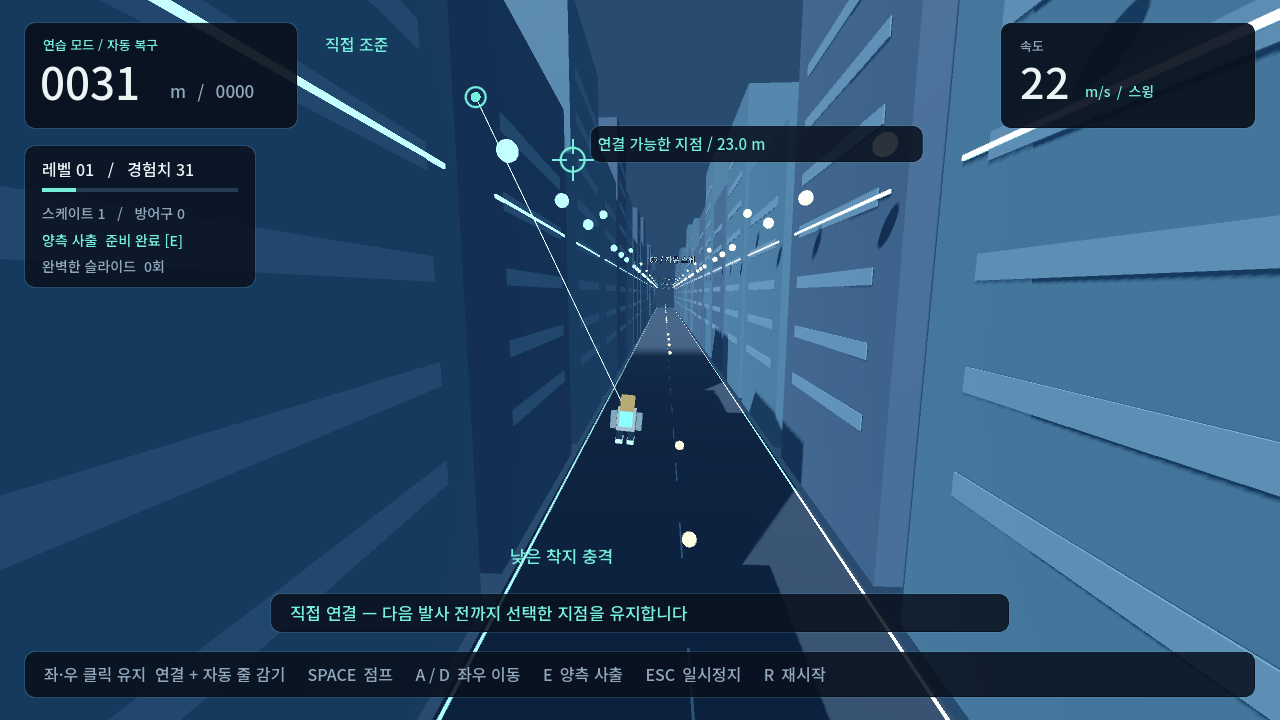
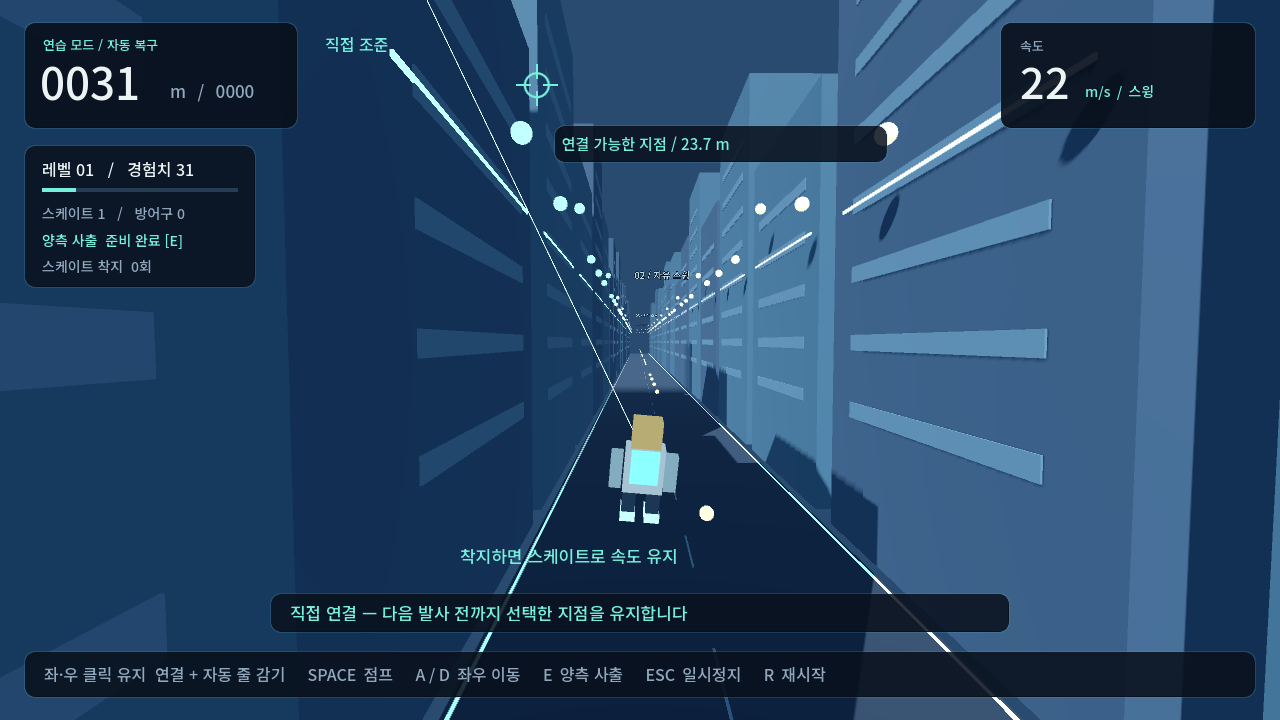
feat: add safe landings, timed skating and protected twin dash

diff --git a/docs/PROGRESS_OVERVIEW.md b/docs/PROGRESS_OVERVIEW.md
@@ -1,12 +1,12 @@
-# Wire Rush — 프로토타입 0.2.1
+# Wire Rush — 프로토타입 0.3.0
 
-2026-09-14. 기본 앵커를 16~18m로 올리고 마우스 버튼 유지 시 자동으로 줄을 감도록 변경했습니다. 한국어/영어와 자동/직접 조준 설정을 유지합니다.
+2026-09-14. 착지 정지, 시간제 스케이트, 가까운 카메라, 앵커 방향 무적 사출, 복귀 후 2초 보호를 적용했습니다. 한국어/영어·자동/직접 조준·마우스 유지 자동 감기를 지원합니다.
 
 ## 실행 위치
 
 - 프로젝트: `D:\GameProject\WireSwing\project.godot`
-- 실행 파일: `builds/WireRush-0.2.1-Windows/WireRush.exe`
-- 배포 ZIP: `builds/WireRush-0.2.1-Windows.zip`
+- 실행 파일: `builds/WireRush-0.3.0-Windows/WireRush.exe`
+- 배포 ZIP: `builds/WireRush-0.3.0-Windows.zip`
 - 저장소: https://github.com/Autopopcornshooter/wire-rush
 
 원본 HellDelivery에는 게임 코드나 문서를 변경하지 않았습니다. 설치된 Godot 실행 파일과 일치하는 공식 export template를 재사용했습니다. 신규 저장소에는 엔진·템플릿·빌드를 포함하지 않습니다.
@@ -19,10 +19,11 @@
 | 설정·언어 | 메인 메뉴/Esc 일시정지 → 설정, 한국어/영어 즉시 전환·저장, 한글 글꼴 포함 |
 | 직접 조준 | 커서로 건물 벽의 임의 지점 선택, 반대 버튼으로 스윙 중 재연결, 연결 지점 고정 |
 | 스윙 | 16~18m 높이 앵커, 실제 갈고리 이동 시간, 한 줄 유지, 클릭 유지 중 자동 줄 감기, 관성 해제 |
-| 착지 | 수직 충격 판정, 0.6초 넘어짐, 착지 전후 해제 여유 시간 |
-| 스케이트 | 속도 보존 슬라이드, 거리 소모, 점프/재연결, 공중 재충전 |
-| 특수 장비 | 양측 사출, 방어구, 미래 고층 앵커, 각 3단계 |
-| 성장 | 새 거리/아이템 XP, 선택 카드, 정지·재개 처리, XP 이월 |
+| 착지 | 낙하 충격 사망 없음, 스케이트 미보유 시 정지, 점프/와이어로 재출발 |
+| 스케이트 | 착지 수평 속력 2/3.5/5초 보존, 해제 타이밍 불필요, 점프/재연결, 공중 재충전 |
+| 특수 장비 | 양쪽 앵커 중간점 방향 무적 사출, 방어구, 미래 고층 앵커, 각 3단계 |
+| 성장·복귀 | 새 거리/아이템 XP, 선택 카드, 정지·재개, XP 이월, 복귀 후 2초 보호 |
+| 카메라 | 캐릭터 뒤 6m·위 2.2m 기준, 빠른 추적, 고정 FOV 75 |
 | 도시 | 6종 패턴, 64m 청크, 앞쪽 생성/뒤쪽 정리, 연결 중 청크 보호, 원점 이동 |
 | 표시 | 거리/속도/장비/슬라이드, 다음 앵커, 조작 안내, 결과 요약 |
 | 데이터 | 최고 거리 로컬 저장, 별도 설정 파일, 연습과 자동 검증 기록 분리 |
@@ -33,19 +34,19 @@
 Godot **4.7.1.stable.official.a13da4feb**, Windows, NVIDIA GeForce RTX 2070 SUPER / OpenGL 3.3 Compatibility.
 
 - Godot headless editor import: 오류 없이 완료.
-- `tests/run.gd`: **43/43 통과**. 높은 앵커, Shift 없이 자동 감기, 해제 시 감기 중단, 거리 중복 방지, 실제 스윙/줄 제약/관성, 착지·슬라이드·점프·재연결, 방어구, 사출, UI 정지, XP 이월, 청크 보호/해제, 원점 이동, 35m/s 충돌.
+- `tests/run.gd`: **64/64 통과**. 높은 앵커·자동 감기·관성·줄 제약, 안전 착지와 방어구 미소모, 등급별 스케이트 시간/속력/만료, 점프·재연결, 단측 앵커 사출 거부, 기존 속도와 무관한 사출 벡터·장애물 통과·무적 종료, 실제 장애물에서 복귀 보호·종료 후 위험 복원, 카메라 거리, UI 정지·XP 이월·원점 이동·청크 보호·35m/s 충돌.
 - `tests/settings_aim.gd`: **36/36 통과**. 직접 조준의 Shift 없는 자동 감기, 설정 저장·복원, 언어·버튼·정지 유지, 카메라 광선→서로 다른 벽과 높이 선택→실제 스윙, 재연결, 사거리·가림 검사, 임시 앵커 정리, 원점 이동·청크 보호, 한 프레임 내 누름/해제, 자동 모드 복귀.
 - `tests/traversal.gd`: 자동 입력 **30초 / 920.38m / 115회 연결 / 자동 복구 0회**. 시작 위치 이외의 순간이동 없이 장애물 없는 Practice 청크를 연결. `--fixed-fps 60`으로 시뮬레이션 시간을 가속 실행.
-- 배포 EXE의 한국어 메뉴, 한국어/영어 설정, 자동/직접 조준 플레이 화면을 캡처·검토. 다섯 프로세스 모두 **exit 0**, stderr 비어 있음. 플레이 캡처는 스크립트 입력을 사용한 렌더링 확인입니다.
[1 lines of base64/hex data omitted]
+- 배포 EXE의 한국어 메뉴, 영어 설정, 자동/직접 조준 플레이 화면을 캡처·검토. 모두 **exit 0**, stderr 비어 있음. 소스 실행에서는 사출·스케이트·착지 정지·복귀 보호 HUD도 별도 fixture로 캡처. 플레이 캡처는 스크립트 입력을 사용한 렌더링 확인입니다.
[1 lines of base64/hex data omitted]
 
 자동 검사는 재현 가능한 기계적 동작 검사입니다. 여러 검사는 초기 위치와 속도를 지정하는 fixture를 사용합니다. 사용자의 자유 플레이, 체감 재미, 다른 GPU/PC에서의 실행까지 검증했다는 의미는 아닙니다.
 
-메뉴와 플레이 캡처: `docs/screenshots/menu.png`, `docs/screenshots/gameplay.png`, `docs/screenshots/settings-ko.png`, `docs/screenshots/settings-en.png`. 로컬 상세 로그는 `validation/`에 생성되며 Git에서 제외합니다. 이전 `v0.1.0`, `v0.2.0` 빌드는 로컬에서 그대로 보존합니다.
+메뉴와 플레이 캡처: `docs/screenshots/menu.png`, `docs/screenshots/gameplay.png`, `docs/screenshots/settings-ko.png`, `docs/screenshots/settings-en.png`. 로컬 상세 로그는 `validation/`에 생성되며 Git에서 제외합니다. 이전 `v0.1.0`, `v0.2.0`, `v0.2.1` 빌드는 로컬에서 그대로 보존합니다.
 
 ## 남은 작업
 
-1. [**핵심 체감 검증 — #1**](https://github.com/Autopopcornshooter/wire-rush/issues/1): 사람의 입력으로 저공 스윙→슬라이드→재연결 5회 연속. 해제 0.15초·충격 4m/s·앵커 선택과 카메라 수치 조정.
+1. [**핵심 체감 검증 — #1**](https://github.com/Autopopcornshooter/wire-rush/issues/1): 사람의 입력으로 스윙→스케이트→재연결 5회 연속. 변경한 착지·사출·복귀 보호·카메라의 체감 확인과 수치 조정. 과거 착지 충격·해제 타이밍 조건은 폐기.
 2. [**장애물 공정성 — #2**](https://github.com/Autopopcornshooter/wire-rush/issues/2): 6종 청크 전체와 연결부를 기본 장비로 검사. 진입 속도별 보장 경로, 예고 가시성, 상부 차단물 난도, 구덩이 도입 여부.
 3. [**표현과 접근성 — #3**](https://github.com/Autopopcornshooter/wire-rush/issues/3): 한국어·조준 방식 설정은 완료. 음량, 선택 장비 전체 결과 표시, 조작 튜토리얼, 아트·애니메이션 교체는 후속 범위.
 

diff --git a/docs/PLAY_GUIDE.md b/docs/PLAY_GUIDE.md
@@ -1,4 +1,4 @@
-# Wire Rush 0.2.1 플레이 안내
+# Wire Rush 0.3.0 플레이 안내
 
 `WireRush.exe` 실행 → **연습 모드(Practice)**로 첫 조작을 연습하세요.
 
@@ -24,22 +24,30 @@
 2. 원형 표시는 해당 버튼으로 연결할 다음 앵커입니다. 줄은 갈고리가 도착한 뒤 연결됩니다.
 3. 앵커를 지나 앞으로 날아갈 때 버튼을 놓습니다. 반대 버튼으로 다음 앵커를 잡을 수 있습니다.
 4. 기본 앵커는 16~18m 높이에 있습니다. 줄은 버튼을 유지하는 동안 최소 3m까지 감깁니다. 너무 오래 붙잡기보다 앵커를 지나며 다음 지점으로 전환하세요. Shift는 사용하지 않습니다.
-5. 땅에서 넘어졌다면 잠시 자동 복구를 기다린 뒤 Space로 점프하고 줄을 거세요.
+5. 땅에 닿으면 게임오버 없이 정지합니다. Space로 점프하거나 마우스로 다시 연결하세요. 카메라는 캐릭터 뒤 6m·위 2.2m를 따라가며 가까이서 조준할 수 있습니다.
 
 ## 스케이트 슬라이드
 
 - Practice에는 처음부터 스케이트가 있습니다. Run에서는 첫 레벨업 후보로 등장합니다.
-- 바닥 직전 수직 낙하 속도가 **4m/s 이하**, 수평 속도 **8m/s 이상**이어야 합니다.
-- 착지 **0.15초 전~0.15초 후**에 연결된 와이어를 놓으면 속도를 보존하며 최대 25m 슬라이드합니다.
-- 안전한 낮은 스윙을 만든 뒤 바닥 근처에서 줄을 놓으세요. 높은 곳에서 그냥 떨어지면 치명 충돌입니다.
-- HUD의 `SOFT LANDING`은 현재 수직 속도 기준입니다. 이후 낙하 가속까지 보장하는 예측 표시는 아닙니다.
-- 슬라이드 중 Space를 누르면 속도를 유지하며 재도약합니다. 공중에서 1.5m 이상 올라야 다음 슬라이드가 재충전됩니다.
+- **스케이트가 없으면 착지 즉시 정지**합니다. 높은 곳에서 떨어져도 바닥 착지만으로 사망하거나 방어구를 소비하지 않습니다.
+- 스케이트가 있으면 착지 때의 수평 속도를 **1등급 2초 / 2등급 3.5초 / 3등급 5초** 동안 유지합니다. 줄을 놓는 타이밍 조건은 없으며 착지 시 자동으로 줄을 해제합니다.
+- HUD에 남은 유지 시간이 표시됩니다. 시간이 끝나면 멈추며, 그 전에 Space로 점프하거나 마우스로 다시 연결할 수 있습니다.
+- A/D로 방향을 보정해도 평지에서 수평 속력은 유지됩니다. 장애물 충돌은 별도입니다.
+- 공중에서 캐릭터 중심이 높이 2.3m 이상 올라야 다음 스케이트 착지가 재충전됩니다. 같은 착지로 시간을 무한 갱신할 수 없습니다.
+
+## 양측 사출과 복귀 보호
+
+- 양측 사출 장비를 얻고 **40m 이내에 보이는 왼쪽·오른쪽 전방 앵커가 모두 있을 때 E**를 누릅니다. HUD에 준비 상태가 표시됩니다. 직접 조준 모드에서도 사출은 기존 전방 앵커 쌍을 사용합니다.
+- 발동 즉시 **플레이어 → 두 앵커 중간점** 방향으로 속도를 바꿉니다. 기존 낙하 방향과 무관하며 돌진 중 중력·A/D가 방향을 바꾸지 않습니다.
+- 등급별 속도는 **28 / 32 / 35m/s**, 최대 **0.65초**간 돌진합니다. 가까운 중간점은 1.5m 앞에서 돌진을 마칩니다. 돌진 중 장애물을 통과하고 피해를 받지 않습니다.
+- 종료 후 관성을 유지하며 공중 이동으로 돌아옵니다. 빠져나올 여유로 0.3초 보호가 더 남습니다. 재사용 대기는 10초이며 앵커가 부족하면 소비하지 않습니다.
+- **Esc·포커스 상실·레벨업에서 복귀하면 2초 무적**입니다. 기존 1초 카운트다운이 끝나 실제 플레이가 재개될 때 시작하고 HUD에 남은 시간이 표시됩니다. 일반 복귀 보호 중에는 장애물을 통과하지 않고 충돌면을 따라 멈추거나 미끄러집니다.
 
 ## 성장과 종료
 
 새로 전진한 거리와 주황색 아이템으로 경험치를 얻습니다. 레벨업은 물리와 재사용 타이머를 멈춥니다. 1/2/3 또는 카드를 클릭해 능력을 선택하고, 조작 버튼을 모두 놓으면 1초 뒤 재개됩니다.
 
-E 양측 사출은 장비를 얻은 뒤 양쪽 앵커가 유효할 때만 발동합니다. 방어구는 치명 충돌을 한 번 막습니다. 고층 연결망은 앞으로 생성될 청크에만 높은 앵커를 추가합니다.
+방어구는 장애물의 치명 충돌을 한 번 막습니다. 보호 시간이 없을 때 정면 장애물 충돌이나 도로 밖 추락은 도전을 종료할 수 있습니다. 고층 연결망은 앞으로 생성될 청크에만 높은 앵커를 추가합니다.
 
 Run의 최고 거리는 `%APPDATA%\Godot\app_userdata\Wire Rush\records.cfg`에 저장됩니다. Practice와 자동 검증은 최고 기록을 바꾸지 않습니다.
 

diff --git a/docs/IMPLEMENTATION.md b/docs/IMPLEMENTATION.md
@@ -1,6 +1,14 @@
-# 구현 결정 — 0.2.1
+# 구현 결정 — 0.3.0
 
 원문은 `ORIGINAL_BRIEF.md`에 보존합니다. 본 문서는 실제 구현과 후속 과제를 구분합니다.
+
+## 0.3.0 변경
+
+- 착지 충격 사망과 해제 타이밍 판정을 제거. 스케이트 미보유 시 즉시 정지하며 자동 달리기는 재개하지 않음. 점프·와이어로 다시 출발 가능.
+- 스케이트는 수평 속도를 2/3.5/5초 유지. 같은 착지는 중복 충전하지 않고 재도약 후 충전. A/D 보정 시에도 수평 속력 보존. 남은 시간을 초로 표시.
+- 양측 사출은 40m 이내 전방 양쪽 앵커가 필요. 발동 시 플레이어에서 두 앵커 중간점으로 향하는 고정 벡터에 등급별 28/32/35m/s를 적용. 최대 0.65초, 중간점 1.5m 전까지 돌진. 이 구간은 충돌 sweep 대신 직접 이동하여 장애물을 통과. 중력·조향 개입 없음. 종료 후 관성 및 0.3초 출구 보호, 재사용 10초.
+- 일시정지·레벨업의 입력 해제 카운트다운이 끝나면 2초 무적. 일반 보호는 충돌을 무시하지 않고 벽면에 따라 속도를 처리. 무적 중 추락 경계는 복구. 보호 타이머와 사출 준비 여부를 HUD에 표시.
+- 카메라 기준 오프셋 (0, 2.2, 6), 추적 보간 계수 14. 고속 주행의 FOV 확대를 없애 캐릭터와 조준 대상 크기를 일정하게 유지.
 
 ## 구조
 
@@ -34,7 +42,7 @@
 
 레이 조회의 물리 프레임 처리와 카메라 광선은 [Godot 공식 문서](https://docs.godotengine.org/en/stable/tutorials/physics/ray-casting.html)를 따릅니다.
 
-60Hz 물리 프레임 안에서 2회 서브스텝을 실행합니다. 예상 위치가 줄 반경 밖에 있을 때만 길이 제약을 적용하고, 모든 최종 이동에 `move_and_collide` sweep을 사용합니다. 갈고리 비행 중에는 제약을 적용하지 않습니다. 줄 해제 자체는 속도를 수정하지 않습니다. 기본 도로는 평지입니다.
+60Hz 물리 프레임 안에서 2회 서브스텝을 실행합니다. 예상 위치가 줄 반경 밖에 있을 때만 길이 제약을 적용하고, 무적 사출을 제외한 이동에 `move_and_collide` sweep을 사용합니다. 갈고리 비행 중에는 제약을 적용하지 않습니다. 줄 해제 자체는 속도를 수정하지 않습니다. 기본 도로는 평지입니다.
 
 ## 원문 대비 프로토타입 결정
 
@@ -48,9 +56,9 @@
 - 현재 구덩이는 생성하지 않음. 낙하 경계 복구 처리만 존재.
 - 최대 능력 이후 XP 팝업을 생략. XP 요구량 지수는 9레벨부터 고정해 무한 증가를 제한.
 - 별도 달리기 속도·획득 반경 업그레이드, 영구 성장, 음량 설정, 난도 자동 상승, 로프 감기는 후속 범위.
-- 기본 스케이트 만료는 지상 속도로 감속하며, 장비가 없거나 타이밍 실패한 저충격 착지는 0.6초 넘어짐.
+- 스케이트 만료와 미보유 착지는 정지. 스케이트 유지 시간 동안만 착지 수평 속력을 보존.
 - 방어구는 충돌 위치 뒤 5m, 높이6m 도로 중앙으로 복구. 구덩이와 일반 지형용 안전 복구점 탐색은 후속 과제.
-- Esc/포커스 상실/레벨업 이후 와이어를 해제하고 모든 동작 버튼을 놓은 뒤 1초 카운트다운. 정지 상태의 속도·재사용 시간은 유지.
+- Esc/포커스 상실/레벨업 이후 와이어를 해제하고 모든 동작 버튼을 놓은 뒤 1초 카운트다운. 정지 상태의 속도·재사용 시간은 유지. 복귀 후 2초 보호.
 
 ## 제한과 다음 기준
 

diff --git a/README.md b/README.md
@@ -1,16 +1,18 @@
 # Wire Rush
 
-건물에 와이어를 걸고 스윙하다가, 저공에서 줄을 놓아 롤러스케이트 슬라이드로 연결하는 3D 무한 진행 게임 프로토타입.
+건물에 와이어를 걸고 스윙하며, 착지 후 스케이트로 속도를 유지하거나 양측 사출로 돌진하는 3D 무한 진행 게임 프로토타입.
 
-**v0.2.1 · Godot 4.7.1 · Windows x64 · 한국어/English · 오프라인 싱글플레이**
+**v0.3.0 · Godot 4.7.1 · Windows x64 · 한국어/English · 오프라인 싱글플레이**
 
 ![Wire Rush gameplay](docs/screenshots/gameplay.png)
 
 ## 실행
 
-로컬 `builds/WireRush-0.2.1-Windows.zip`을 풀고 `WireRush.exe`를 실행합니다. 엔진 설치 없이 실행할 수 있습니다. 소스에서는 Godot 4.7.1로 `project.godot`를 가져온 다음 F5로 실행합니다.
+로컬 `builds/WireRush-0.3.0-Windows.zip`을 풀고 `WireRush.exe`를 실행합니다. 엔진 설치 없이 실행할 수 있습니다. 소스에서는 Godot 4.7.1로 `project.godot`를 가져온 다음 F5로 실행합니다.
 
-**0.2.1 조작 개선:** 기본 앵커 높이를 16~18m로 올렸습니다. 두 조준 모드 모두 **마우스 버튼을 유지하면 자동으로 와이어를 감습니다.** Shift는 필요 없습니다.
+**0.3.0 조작 개선:** 착지는 사망 대신 정지. 스케이트는 착지 속도를 등급별 2/3.5/5초 유지. 양측 사출은 두 앵커 중간점으로 무적 돌진. 일시정지·레벨업 복귀 시 2초 보호. 카메라는 뒤 6m·위 2.2m로 가까워졌습니다.
+
+기본 앵커 높이는 16~18m입니다. 두 조준 모드 모두 **마우스 버튼을 유지하면 자동으로 와이어를 감습니다.** Shift는 필요 없습니다.
 
 메인 메뉴 **설정(Settings)** 또는 **Esc → 설정**에서 **한국어/English**와 **자동 조준/직접 조준**을 선택합니다. 언어는 즉시 적용되고 선택한 설정은 다음 실행에도 유지됩니다. 최초 기본값은 한국어·자동 조준입니다.
 
@@ -29,7 +31,7 @@
 
 ## 구현 범위
 
-자동·직접 와이어 조준, 한국어·영어 설정, 한 줄 스윙/갈고리 비행/줄 감기/관성 해제, 착지 충격과 해제 타이밍, 스케이트/양측 사출/방어구/고층 앵커, 3택1 성장, 6개 도로 패턴, 거리 기록, 청크 정리와 원점 이동, 메뉴·HUD·합성 효과음을 포함합니다. 모든 모델은 기본 도형으로 직접 구성했습니다.
+자동·직접 와이어 조준, 한국어·영어 설정, 한 줄 스윙/갈고리 비행/줄 감기/관성 해제, 안전 착지와 시간제 스케이트, 양측 무적 사출/방어구/고층 앵커, 복귀 보호, 3택1 성장, 6개 도로 패턴, 거리 기록, 청크 정리와 원점 이동, 메뉴·HUD·합성 효과음을 포함합니다. 모든 모델은 기본 도형으로 직접 구성했습니다.
 
 기획 원문 전체의 완성판이 아닙니다. 초반 연결성과 핵심 동작을 실행하며 검증하는 첫 버전입니다. 장애물 조합 전체의 공정성, 5회 연속 스윙-슬라이드 루프, 난이도 곡선과 사용자 체감은 후속 검증 대상입니다.
 
